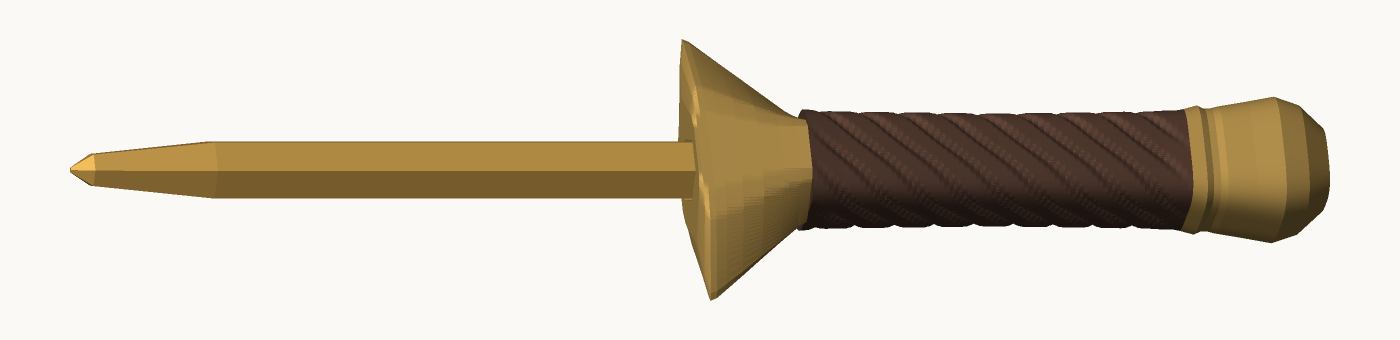
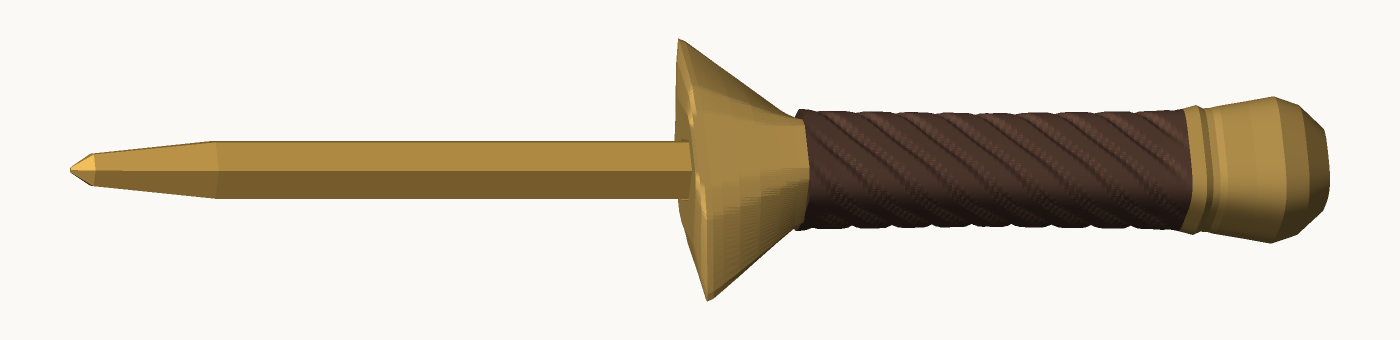
鉛筆の長さを実測の 175mm に合わせ、対応範囲を明記
手持ちの鉛筆が約 17.5cm だったので、想定値を 176mm から 175mm に修正。

PENCIL_LEN はプレビュー図の描画にしか使っていないパラメータなので、
5 つの STL は 1 バイトも変わらない（md5 一致を確認）。刷り直しは不要。

あわせて、この設計が受けられる鉛筆の長さの範囲を README に書いた。
お尻は柄頭の袋穴の底 (z=-6.2) に当たり、先端は剣身の袋穴の底 (z=178) まで
余地があるので 105〜184mm。175mm なら先端は袋穴の底の 9mm 手前で止まる。

Claude-Session: https://claude.ai/code/session_019DYTX5y9GVJkbWBDxDukZC

diff --git a/hardware/pencil-sword/generate.py b/hardware/pencil-sword/generate.py
@@ -43,7 +43,7 @@ import numpy as np
 
 # --- 鉛筆 ---
 PENCIL_AF = 7.8          # 六角鉛筆の対辺距離 (JIS S 6005 は 7.6〜8.0)
-PENCIL_LEN = 176.0       # 新品の鉛筆の長さ
+PENCIL_LEN = 175.0       # 新品の鉛筆の長さ（部品の形には影響しない。図の見た目だけ）
 
 # --- はめあい ---
 BORE_AF = 8.45           # 穴の対辺距離。ゆるい＝下げる / きつい＝上げる

diff --git a/hardware/pencil-sword/README.md b/hardware/pencil-sword/README.md
@@ -34,7 +34,7 @@
 ```
 
 刃 144mm ／ 柄まわり 90mm ＝ 剣らしい 6：4 の比率になるように、
-新品の鉛筆（176mm）がちょうど全部隠れる位置で区切ってある。
+新品の鉛筆（175mm）がちょうど全部隠れる位置で区切ってある。
 
 | 正面 | 真横 |
 |---|---|
@@ -46,7 +46,11 @@
 
 ## 鉛筆と、はめあい
 
-対象は **JIS 六角鉛筆（対辺 7.8mm・長さ 176mm）**。三菱・トンボの普通の鉛筆はこれ。
+対象は **JIS 六角鉛筆（対辺 7.8mm・長さ 175mm）**。三菱・トンボの普通の鉛筆はこれ。
+
+長さは **105〜184mm** の範囲で使える。鉛筆のお尻は柄頭の袋穴の底（剣の座標で z=-6.2）に
+突き当たり、先端は剣身の袋穴の底（z=178）まで入る余地がある。175mm の鉛筆なら
+先端は袋穴の底の 9mm 手前で止まる。
 
 穴は 3 段構えになっている。
 
